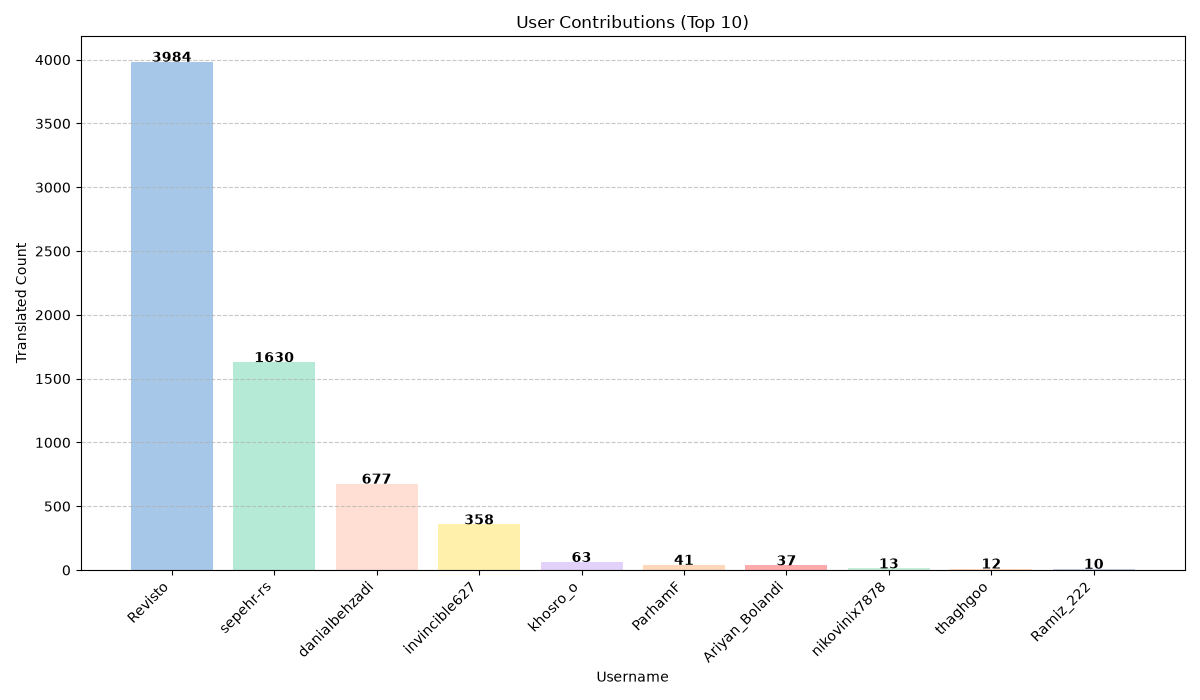
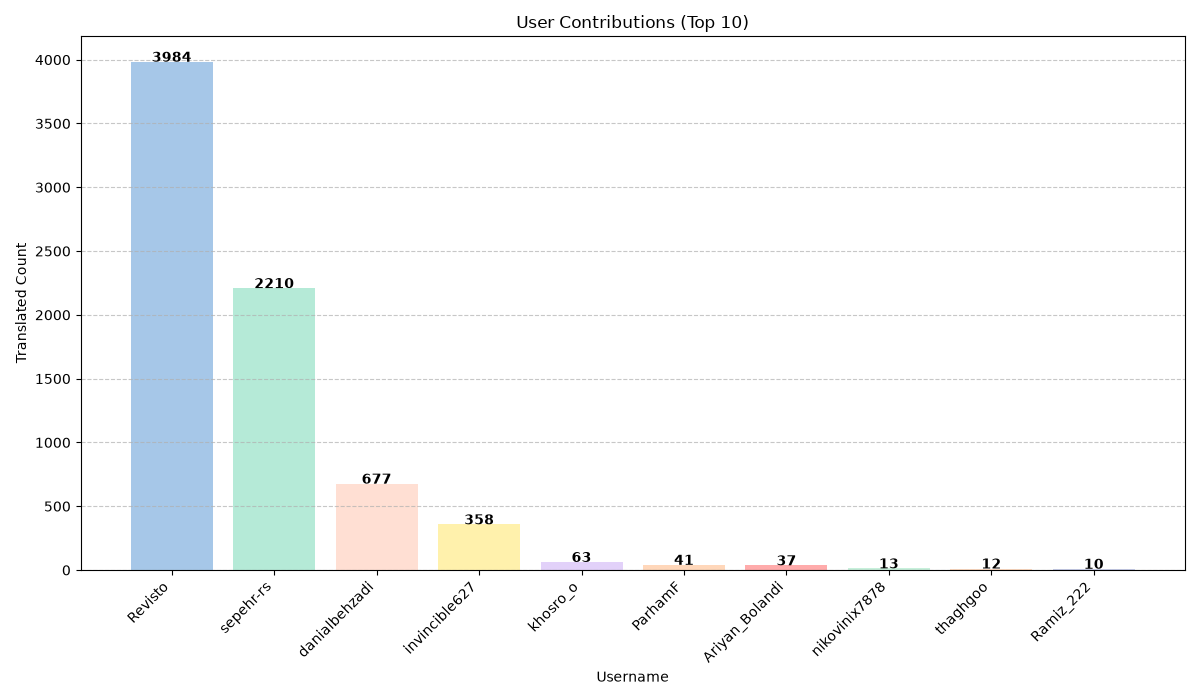
chore: update translation status, PO headers, team credits, and contributor chart

Changed region(s): [[0.185, 0.39, 0.2775, 0.54]]

diff --git a/STATUS.md b/STATUS.md
@@ -1,6 +1,6 @@
 <!-- TRANSLATION_STATUS_START -->
 ### وضعیت ترجمه فایلها
-(بهروزرسانی: 2026-08-25)
+(بهروزرسانی: 2026-08-26)
 
 | فایل | ترجمهشده | مبهم | تعداد ترجمهشده | تعداد ترجمهنشده |
 |:-----|:-----------:|:-----------:|:-----------:|:-----------:|
@@ -13,10 +13,11 @@
 | c-api/bytearray.po | 100.0% | 0.0% | 23 | 0 |
 | contents.po | 100.0% | 0.0% | 1 | 0 |
 | copyright.po | 100.0% | 0.0% | 7 | 0 |
+| glossary.po | 100.0% | 0.0% | 499 | 0 |
 | improve-page-nojs.po | 100.0% | 0.0% | 6 | 0 |
 | improve-page.po | 100.0% | 0.0% | 8 | 0 |
 | library/__future__.po | 100.0% | 0.0% | 49 | 0 |
-| library/functions.po | 100.0% | 0.0% | 520 | 0 |
+| library/functions.po | 100.0% | 0.0% | 521 | 0 |
 | sphinx.po | 100.0% | 0.0% | 112 | 0 |
 | tutorial/appendix.po | 100.0% | 0.0% | 28 | 0 |
 | tutorial/appetite.po | 100.0% | 0.0% | 17 | 0 |
@@ -33,7 +34,7 @@
 | tutorial/modules.po | 100.0% | 0.0% | 117 | 0 |
 | tutorial/stdlib.po | 100.0% | 0.0% | 67 | 0 |
 | tutorial/stdlib2.po | 100.0% | 0.0% | 65 | 0 |
-| tutorial/venv.po | 100.0% | 0.0% | 42 | 0 |
+| tutorial/venv.po | 100.0% | 0.0% | 43 | 0 |
 | tutorial/whatnow.po | 100.0% | 0.0% | 18 | 0 |
 | library/__main__.po | 13.9% | 0.0% | 10 | 62 |
 | c-api/dict.po | 2.8% | 0.0% | 3 | 106 |
@@ -53,12 +54,12 @@
 | c-api/coro.po | 0.0% | 0.0% | 0 | 6 |
 | c-api/curses.po | 0.0% | 0.0% | 0 | 28 |
 | c-api/datetime.po | 0.0% | 0.0% | 0 | 65 |
-| c-api/descriptor.po | 0.0% | 0.0% | 0 | 17 |
-| c-api/exceptions.po | 0.0% | 0.0% | 0 | 269 |
+| c-api/descriptor.po | 0.0% | 0.0% | 0 | 33 |
+| c-api/exceptions.po | 0.0% | 0.0% | 0 | 274 |
 | c-api/extension-modules.po | 0.0% | 0.0% | 0 | 50 |
 | c-api/file.po | 0.0% | 0.0% | 0 | 31 |
 | c-api/float.po | 0.0% | 0.0% | 0 | 58 |
-| c-api/frame.po | 0.0% | 0.0% | 0 | 50 |
+| c-api/frame.po | 0.0% | 0.0% | 0 | 61 |
 | c-api/function.po | 0.0% | 0.0% | 0 | 43 |
 | c-api/gcsupport.po | 0.0% | 0.0% | 0 | 68 |
 | c-api/gen.po | 0.0% | 0.0% | 0 | 18 |
@@ -66,9 +67,9 @@
 | c-api/import.po | 0.0% | 0.0% | 0 | 67 |
 | c-api/index.po | 0.0% | 0.0% | 0 | 2 |
 | c-api/init.po | 0.0% | 0.0% | 0 | 8 |
-| c-api/init_config.po | 0.0% | 0.0% | 0 | 638 |
+| c-api/init_config.po | 0.0% | 0.0% | 0 | 639 |
 | c-api/interp-lifecycle.po | 0.0% | 0.0% | 0 | 202 |
-| c-api/intro.po | 0.0% | 0.0% | 0 | 216 |
+| c-api/intro.po | 0.0% | 0.0% | 0 | 217 |
 | c-api/iter.po | 0.0% | 0.0% | 0 | 12 |
 | c-api/iterator.po | 0.0% | 0.0% | 0 | 24 |
 | c-api/lifecycle.po | 0.0% | 0.0% | 0 | 45 |
@@ -85,7 +86,7 @@
 | c-api/number.po | 0.0% | 0.0% | 0 | 48 |
 | c-api/object.po | 0.0% | 0.0% | 0 | 147 |
 | c-api/objimpl.po | 0.0% | 0.0% | 0 | 2 |
-| c-api/perfmaps.po | 0.0% | 0.0% | 0 | 10 |
+| c-api/perfmaps.po | 0.0% | 0.0% | 0 | 24 |
 | c-api/picklebuffer.po | 0.0% | 0.0% | 0 | 16 |
 | c-api/profiling.po | 0.0% | 0.0% | 0 | 46 |
 | c-api/refcounting.po | 0.0% | 0.0% | 0 | 50 |
@@ -107,17 +108,17 @@
 | c-api/typeobj.po | 0.0% | 0.0% | 0 | 764 |
 | c-api/unicode.po | 0.0% | 0.0% | 0 | 414 |
 | c-api/utilities.po | 0.0% | 0.0% | 0 | 2 |
-| c-api/veryhigh.po | 0.0% | 0.0% | 0 | 70 |
+| c-api/veryhigh.po | 0.0% | 0.0% | 0 | 86 |
 | c-api/weakref.po | 0.0% | 0.0% | 0 | 23 |
 | deprecations/c-api-pending-removal-in-3.14.po | 0.0% | 0.0% | 0 | 3 |
 | deprecations/c-api-pending-removal-in-3.15.po | 0.0% | 0.0% | 0 | 45 |
 | deprecations/c-api-pending-removal-in-3.16.po | 0.0% | 0.0% | 0 | 2 |
 | deprecations/c-api-pending-removal-in-3.18.po | 0.0% | 0.0% | 0 | 22 |
 | deprecations/c-api-pending-removal-in-future.po | 0.0% | 0.0% | 0 | 20 |
-| deprecations/index.po | 0.0% | 0.0% | 0 | 232 |
+| deprecations/index.po | 0.0% | 0.0% | 0 | 230 |
 | deprecations/pending-removal-in-3.13.po | 0.0% | 0.0% | 0 | 33 |
 | deprecations/pending-removal-in-3.14.po | 0.0% | 0.0% | 0 | 33 |
-| deprecations/pending-removal-in-3.15.po | 0.0% | 0.0% | 0 | 31 |
+| deprecations/pending-removal-in-3.15.po | 0.0% | 0.0% | 0 | 29 |
 | deprecations/pending-removal-in-3.16.po | 0.0% | 0.0% | 0 | 36 |
 | deprecations/pending-removal-in-3.17.po | 0.0% | 0.0% | 0 | 9 |
 | deprecations/pending-removal-in-3.18.po | 0.0% | 0.0% | 0 | 3 |
@@ -140,7 +141,6 @@
 | faq/library.po | 0.0% | 0.0% | 0 | 153 |
 | faq/programming.po | 0.0% | 0.0% | 0 | 506 |
 | faq/windows.po | 0.0% | 0.0% | 0 | 58 |
-| glossary.po | 0.0% | 0.0% | 0 | 493 |
 | howto/a-conceptual-overview-of-asyncio.po | 0.0% | 0.0% | 0 | 93 |
 | howto/annotations.po | 0.0% | 0.0% | 0 | 52 |
 | howto/argparse-optparse.po | 0.0% | 0.0% | 0 | 20 |
@@ -179,26 +179,28 @@
 | library/archiving.po | 0.0% | 0.0% | 0 | 2 |
 | library/argparse.po | 0.0% | 0.0% | 0 | 408 |
 | library/array.po | 0.0% | 0.0% | 0 | 89 |
-| library/ast.po | 0.0% | 0.0% | 0 | 338 |
+| library/ast.po | 0.0% | 0.0% | 0 | 339 |
 | library/asynchat.po | 0.0% | 0.0% | 0 | 4 |
 | library/asyncio-api-index.po | 0.0% | 0.0% | 0 | 100 |
 | library/asyncio-dev.po | 0.0% | 0.0% | 0 | 84 |
-| library/asyncio-eventloop.po | 0.0% | 0.0% | 0 | 417 |
+| library/asyncio-eventloop.po | 0.0% | 0.0% | 0 | 426 |
 | library/asyncio-exceptions.po | 0.0% | 0.0% | 0 | 19 |
 | library/asyncio-extending.po | 0.0% | 0.0% | 0 | 27 |
 | library/asyncio-future.po | 0.0% | 0.0% | 0 | 66 |
-| library/asyncio-graph.po | 0.0% | 0.0% | 0 | 30 |
+| library/asyncio-graph.po | 0.0% | 0.0% | 0 | 32 |
 | library/asyncio-llapi-index.po | 0.0% | 0.0% | 0 | 238 |
-| library/asyncio-platforms.po | 0.0% | 0.0% | 0 | 25 |
+| library/asyncio-platforms.po | 0.0% | 0.0% | 0 | 27 |
 | library/asyncio-policy.po | 0.0% | 0.0% | 0 | 36 |
 | library/asyncio-protocol.po | 0.0% | 0.0% | 0 | 194 |
-| library/asyncio-queue.po | 0.0% | 0.0% | 0 | 48 |
+| library/asyncio-queue.po | 0.0% | 0.0% | 0 | 49 |
 | library/asyncio-runner.po | 0.0% | 0.0% | 0 | 41 |
-| library/asyncio-stream.po | 0.0% | 0.0% | 0 | 104 |
+| library/asyncio-stream.po | 0.0% | 0.0% | 0 | 105 |
 | library/asyncio-subprocess.po | 0.0% | 0.0% | 0 | 80 |
 | library/asyncio-sync.po | 0.0% | 0.0% | 0 | 100 |
-| library/asyncio-task.po | 0.0% | 0.0% | 0 | 275 |
-| library/asyncio.po | 0.0% | 0.0% | 0 | 32 |
+| library/asyncio-task.po | 0.0% | 0.0% | 0 | 277 |
+| library/asyncio-threading.po | 0.0% | 0.0% | 0 | 21 |
+| library/asyncio-tools.po | 0.0% | 0.0% | 0 | 22 |
+| library/asyncio.po | 0.0% | 0.0% | 0 | 36 |
 | library/asyncore.po | 0.0% | 0.0% | 0 | 4 |
 | library/atexit.po | 0.0% | 0.0% | 0 | 22 |
 | library/audioop.po | 0.0% | 0.0% | 0 | 3 |
@@ -219,7 +221,7 @@
 | library/cmdline.po | 0.0% | 0.0% | 0 | 53 |
 | library/cmdlinelibs.po | 0.0% | 0.0% | 0 | 3 |
 | library/code.po | 0.0% | 0.0% | 0 | 33 |
-| library/codecs.po | 0.0% | 0.0% | 0 | 564 |
+| library/codecs.po | 0.0% | 0.0% | 0 | 565 |
 | library/codeop.po | 0.0% | 0.0% | 0 | 14 |
 | library/collections.abc.po | 0.0% | 0.0% | 0 | 142 |
 | library/collections.po | 0.0% | 0.0% | 0 | 244 |
@@ -239,13 +241,13 @@
 | library/copyreg.po | 0.0% | 0.0% | 0 | 12 |
 | library/crypt.po | 0.0% | 0.0% | 0 | 4 |
 | library/crypto.po | 0.0% | 0.0% | 0 | 3 |
-| library/csv.po | 0.0% | 0.0% | 0 | 122 |
+| library/csv.po | 0.0% | 0.0% | 0 | 130 |
 | library/ctypes.po | 0.0% | 0.0% | 0 | 676 |
 | library/curses.ascii.po | 0.0% | 0.0% | 0 | 69 |
-| library/curses.panel.po | 0.0% | 0.0% | 0 | 23 |
-| library/curses.po | 0.0% | 0.0% | 0 | 491 |
+| library/curses.panel.po | 0.0% | 0.0% | 0 | 25 |
+| library/curses.po | 0.0% | 0.0% | 0 | 503 |
 | library/custominterp.po | 0.0% | 0.0% | 0 | 3 |
-| library/dataclasses.po | 0.0% | 0.0% | 0 | 158 |
+| library/dataclasses.po | 0.0% | 0.0% | 0 | 162 |
 | library/datatypes.po | 0.0% | 0.0% | 0 | 4 |
 | library/datetime.po | 0.0% | 0.0% | 0 | 658 |
 | library/dbm.po | 0.0% | 0.0% | 0 | 108 |
@@ -253,8 +255,8 @@
 | library/decimal.po | 0.0% | 0.0% | 0 | 386 |
 | library/development.po | 0.0% | 0.0% | 0 | 3 |
 | library/devmode.po | 0.0% | 0.0% | 0 | 58 |
-| library/dialog.po | 0.0% | 0.0% | 0 | 57 |
-| library/difflib.po | 0.0% | 0.0% | 0 | 140 |
+| library/dialog.po | 0.0% | 0.0% | 0 | 68 |
+| library/difflib.po | 0.0% | 0.0% | 0 | 150 |
 | library/dis.po | 0.0% | 0.0% | 0 | 414 |
 | library/distribution.po | 0.0% | 0.0% | 0 | 2 |
 | library/distutils.po | 0.0% | 0.0% | 0 | 3 |
@@ -278,7 +280,7 @@
 | library/ensurepip.po | 0.0% | 0.0% | 0 | 40 |
 | library/enum.po | 0.0% | 0.0% | 0 | 257 |
 | library/errno.po | 0.0% | 0.0% | 0 | 161 |
-| library/exceptions.po | 0.0% | 0.0% | 0 | 203 |
+| library/exceptions.po | 0.0% | 0.0% | 0 | 204 |
 | library/faulthandler.po | 0.0% | 0.0% | 0 | 53 |
 | library/fcntl.po | 0.0% | 0.0% | 0 | 54 |
 | library/filecmp.po | 0.0% | 0.0% | 0 | 42 |
@@ -292,7 +294,7 @@
 | library/functional.po | 0.0% | 0.0% | 0 | 3 |
 | library/functools.po | 0.0% | 0.0% | 0 | 126 |
 | library/gc.po | 0.0% | 0.0% | 0 | 67 |
-| library/getopt.po | 0.0% | 0.0% | 0 | 36 |
+| library/getopt.po | 0.0% | 0.0% | 0 | 37 |
 | library/getpass.po | 0.0% | 0.0% | 0 | 16 |
 | library/gettext.po | 0.0% | 0.0% | 0 | 129 |
 | library/glob.po | 0.0% | 0.0% | 0 | 46 |
@@ -309,10 +311,10 @@
 | library/http.cookiejar.po | 0.0% | 0.0% | 0 | 159 |
 | library/http.cookies.po | 0.0% | 0.0% | 0 | 52 |
 | library/http.po | 0.0% | 0.0% | 0 | 247 |
-| library/http.server.po | 0.0% | 0.0% | 0 | 131 |
+| library/http.server.po | 0.0% | 0.0% | 0 | 141 |
 | library/i18n.po | 0.0% | 0.0% | 0 | 3 |
 | library/idle.po | 0.0% | 0.0% | 0 | 297 |
-| library/imaplib.po | 0.0% | 0.0% | 0 | 131 |
+| library/imaplib.po | 0.0% | 0.0% | 0 | 134 |
 | library/imghdr.po | 0.0% | 0.0% | 0 | 4 |
 | library/imp.po | 0.0% | 0.0% | 0 | 4 |
 | library/importlib.metadata.po | 0.0% | 0.0% | 0 | 120 |
@@ -320,7 +322,7 @@
 | library/importlib.resources.abc.po | 0.0% | 0.0% | 0 | 37 |
 | library/importlib.resources.po | 0.0% | 0.0% | 0 | 53 |
 | library/index.po | 0.0% | 0.0% | 0 | 5 |
-| library/inspect.po | 0.0% | 0.0% | 0 | 417 |
+| library/inspect.po | 0.0% | 0.0% | 0 | 420 |
 | library/internet.po | 0.0% | 0.0% | 0 | 7 |
 | library/intro.po | 0.0% | 0.0% | 0 | 32 |
 | library/io.po | 0.0% | 0.0% | 0 | 289 |
@@ -334,7 +336,7 @@
 | library/logging.config.po | 0.0% | 0.0% | 0 | 171 |
 | library/logging.handlers.po | 0.0% | 0.0% | 0 | 276 |
 | library/logging.po | 0.0% | 0.0% | 0 | 372 |
-| library/lzma.po | 0.0% | 0.0% | 0 | 116 |
+| library/lzma.po | 0.0% | 0.0% | 0 | 128 |
 | library/mailbox.po | 0.0% | 0.0% | 0 | 307 |
 | library/mailcap.po | 0.0% | 0.0% | 0 | 3 |
 | library/markup.po | 0.0% | 0.0% | 0 | 2 |
@@ -353,12 +355,12 @@
 | library/netrc.po | 0.0% | 0.0% | 0 | 19 |
 | library/nis.po | 0.0% | 0.0% | 0 | 3 |
 | library/nntplib.po | 0.0% | 0.0% | 0 | 3 |
-| library/numbers.po | 0.0% | 0.0% | 0 | 35 |
+| library/numbers.po | 0.0% | 0.0% | 0 | 34 |
 | library/numeric.po | 0.0% | 0.0% | 0 | 3 |
 | library/operator.po | 0.0% | 0.0% | 0 | 189 |
 | library/optparse.po | 0.0% | 0.0% | 0 | 532 |
 | library/os.path.po | 0.0% | 0.0% | 0 | 110 |
-| library/os.po | 0.0% | 0.0% | 0 | 1054 |
+| library/os.po | 0.0% | 0.0% | 0 | 1075 |
 | library/ossaudiodev.po | 0.0% | 0.0% | 0 | 3 |
 | library/pathlib.po | 0.0% | 0.0% | 0 | 445 |
 | library/pdb.po | 0.0% | 0.0% | 0 | 179 |
@@ -403,14 +405,14 @@
 | library/smtpd.po | 0.0% | 0.0% | 0 | 4 |
 | library/smtplib.po | 0.0% | 0.0% | 0 | 124 |
 | library/sndhdr.po | 0.0% | 0.0% | 0 | 4 |
-| library/socket.po | 0.0% | 0.0% | 0 | 384 |
+| library/socket.po | 0.0% | 0.0% | 0 | 385 |
 | library/socketserver.po | 0.0% | 0.0% | 0 | 99 |
 | library/spwd.po | 0.0% | 0.0% | 0 | 4 |
 | library/sqlite3.po | 0.0% | 0.0% | 0 | 480 |
 | library/ssl.po | 0.0% | 0.0% | 0 | 547 |
 | library/stat.po | 0.0% | 0.0% | 0 | 92 |
 | library/statistics.po | 0.0% | 0.0% | 0 | 248 |
-| library/stdtypes.po | 0.0% | 0.0% | 0 | 1575 |
+| library/stdtypes.po | 0.0% | 0.0% | 0 | 1582 |
 | library/string.po | 0.0% | 0.0% | 0 | 224 |
 | library/string.templatelib.po | 0.0% | 0.0% | 0 | 56 |
 | library/stringprep.po | 0.0% | 0.0% | 0 | 25 |
@@ -429,7 +431,7 @@
 | library/telnetlib.po | 0.0% | 0.0% | 0 | 4 |
 | library/tempfile.po | 0.0% | 0.0% | 0 | 88 |
 | library/termios.po | 0.0% | 0.0% | 0 | 25 |
-| library/test.po | 0.0% | 0.0% | 0 | 331 |
+| library/test.po | 0.0% | 0.0% | 0 | 337 |
 | library/text.po | 0.0% | 0.0% | 0 | 3 |
 | library/textwrap.po | 0.0% | 0.0% | 0 | 58 |
 | library/threading.po | 0.0% | 0.0% | 0 | 284 |
@@ -437,13 +439,13 @@
 | library/time.po | 0.0% | 0.0% | 0 | 280 |
 | library/timeit.po | 0.0% | 0.0% | 0 | 68 |
 | library/tk.po | 0.0% | 0.0% | 0 | 8 |
-| library/tkinter.colorchooser.po | 0.0% | 0.0% | 0 | 6 |
+| library/tkinter.colorchooser.po | 0.0% | 0.0% | 0 | 8 |
 | library/tkinter.dnd.po | 0.0% | 0.0% | 0 | 20 |
-| library/tkinter.font.po | 0.0% | 0.0% | 0 | 35 |
-| library/tkinter.messagebox.po | 0.0% | 0.0% | 0 | 42 |
-| library/tkinter.po | 0.0% | 0.0% | 0 | 328 |
+| library/tkinter.font.po | 0.0% | 0.0% | 0 | 37 |
+| library/tkinter.messagebox.po | 0.0% | 0.0% | 0 | 43 |
+| library/tkinter.po | 0.0% | 0.0% | 0 | 1236 |
 | library/tkinter.scrolledtext.po | 0.0% | 0.0% | 0 | 7 |
-| library/tkinter.ttk.po | 0.0% | 0.0% | 0 | 429 |
+| library/tkinter.ttk.po | 0.0% | 0.0% | 0 | 476 |
 | library/token.po | 0.0% | 0.0% | 0 | 100 |
 | library/tokenize.po | 0.0% | 0.0% | 0 | 52 |
 | library/tomllib.po | 0.0% | 0.0% | 0 | 52 |
@@ -460,14 +462,14 @@
 | library/unittest.po | 0.0% | 0.0% | 0 | 560 |
 | library/unix.po | 0.0% | 0.0% | 0 | 2 |
 | library/urllib.error.po | 0.0% | 0.0% | 0 | 15 |
-| library/urllib.parse.po | 0.0% | 0.0% | 0 | 165 |
+| library/urllib.parse.po | 0.0% | 0.0% | 0 | 169 |
 | library/urllib.po | 0.0% | 0.0% | 0 | 7 |
 | library/urllib.request.po | 0.0% | 0.0% | 0 | 295 |
 | library/urllib.robotparser.po | 0.0% | 0.0% | 0 | 19 |
-| library/uu.po | 0.0% | 0.0% | 0 | 3 |
+| library/uu.po | 0.0% | 0.0% | 0 | 4 |
 | library/uuid.po | 0.0% | 0.0% | 0 | 79 |
 | library/venv.po | 0.0% | 0.0% | 0 | 137 |
-| library/warnings.po | 0.0% | 0.0% | 0 | 151 |
+| library/warnings.po | 0.0% | 0.0% | 0 | 160 |
 | library/wave.po | 0.0% | 0.0% | 0 | 61 |
 | library/weakref.po | 0.0% | 0.0% | 0 | 96 |
 | library/webbrowser.po | 0.0% | 0.0% | 0 | 90 |
@@ -493,12 +495,12 @@
 | library/zipimport.po | 0.0% | 0.0% | 0 | 39 |
 | library/zlib.po | 0.0% | 0.0% | 0 | 96 |
 | library/zoneinfo.po | 0.0% | 0.0% | 0 | 84 |
-| license.po | 0.0% | 0.0% | 0 | 126 |
+| license.po | 0.0% | 0.0% | 0 | 129 |
 | reference/compound_stmts.po | 0.0% | 0.0% | 0 | 480 |
 | reference/datamodel.po | 0.0% | 0.0% | 0 | 913 |
 | reference/executionmodel.po | 0.0% | 0.0% | 0 | 145 |
-| reference/expressions.po | 0.0% | 0.0% | 0 | 583 |
-| reference/grammar.po | 0.0% | 0.0% | 0 | 6 |
+| reference/expressions.po | 0.0% | 0.0% | 0 | 595 |
+| reference/grammar.po | 0.0% | 0.0% | 0 | 7 |
 | reference/import.po | 0.0% | 0.0% | 0 | 202 |
 | reference/index.po | 0.0% | 0.0% | 0 | 2 |
 | reference/introduction.po | 0.0% | 0.0% | 0 | 56 |
@@ -526,9 +528,9 @@
 | whatsnew/3.1.po | 0.0% | 0.0% | 0 | 132 |
 | whatsnew/3.10.po | 0.0% | 0.0% | 0 | 550 |
 | whatsnew/3.11.po | 0.0% | 0.0% | 0 | 776 |
-| whatsnew/3.12.po | 0.0% | 0.0% | 0 | 858 |
-| whatsnew/3.13.po | 0.0% | 0.0% | 0 | 935 |
-| whatsnew/3.14.po | 0.0% | 0.0% | 0 | 1055 |
+| whatsnew/3.12.po | 0.0% | 0.0% | 0 | 856 |
+| whatsnew/3.13.po | 0.0% | 0.0% | 0 | 933 |
+| whatsnew/3.14.po | 0.0% | 0.0% | 0 | 1054 |
 | whatsnew/3.2.po | 0.0% | 0.0% | 0 | 576 |
 | whatsnew/3.3.po | 0.0% | 0.0% | 0 | 682 |
 | whatsnew/3.4.po | 0.0% | 0.0% | 0 | 517 |
@@ -539,5 +541,5 @@
 | whatsnew/3.9.po | 0.0% | 0.0% | 0 | 380 |
 | whatsnew/changelog.po | 0.0% | 0.0% | 0 | 1 |
 | whatsnew/index.po | 0.0% | 0.0% | 0 | 3 |
-| **مجموع** | **3.2%** | **0.0%** | **2205** | **66807** |
+| **مجموع** | **3.9%** | **0.0%** | **2706** | **67536** |
 <!-- TRANSLATION_STATUS_END -->

diff --git a/README.md b/README.md
@@ -44,6 +44,6 @@
 
 <!-- STATS_START -->
 ### مشارکتهای کاربران
-![نمودار مشارکتهای کاربران؛ Revisto 3984، sepehr-rs 1630، danialbehzadi 677، invincible627 358، khosro_o 63، ParhamF 41، Ariyan_Bolandi 37، nikovinix7878 13، thaghgoo 12، Ramiz_222 10](reports/contributor_stats_latest.png)
-(بهروزرسانی: 2026-08-25)
+![نمودار مشارکتهای کاربران؛ Revisto 3984، sepehr-rs 2210، danialbehzadi 677، invincible627 358، khosro_o 63، ParhamF 41، Ariyan_Bolandi 37، nikovinix7878 13، thaghgoo 12، Ramiz_222 10](reports/contributor_stats_latest.png)
+(بهروزرسانی: 2026-08-26)
 <!-- STATS_END -->

diff --git a/TEAM.md b/TEAM.md
@@ -1,7 +1,7 @@
 | User | Role | Translated Count |
 |:-----|:------:|:------------------:|
 | Revisto | coordinator | 3984 |
-| sepehr-rs | coordinator | 1630 |
+| sepehr-rs | coordinator | 2210 |
 | danialbehzadi | reviewer | 677 |
 | invincible627 | translator | 358 |
 | khosro_o | reviewer | 63 |
